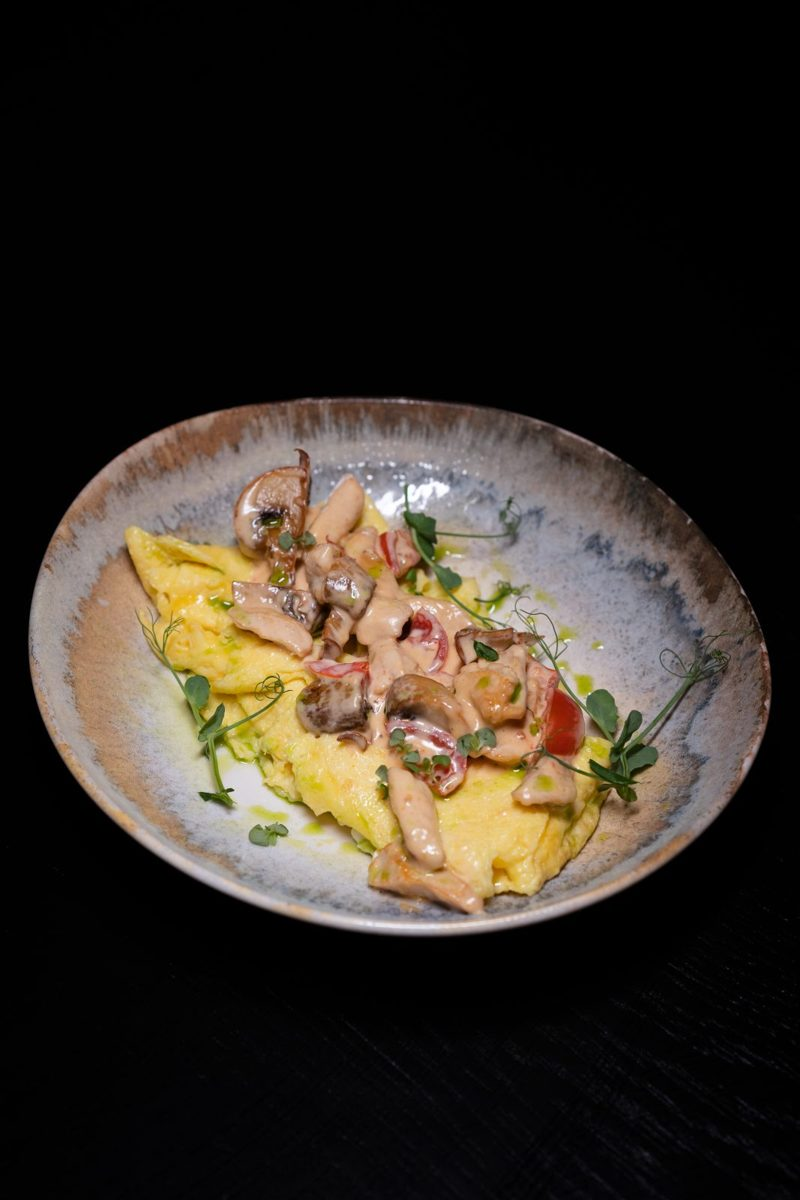
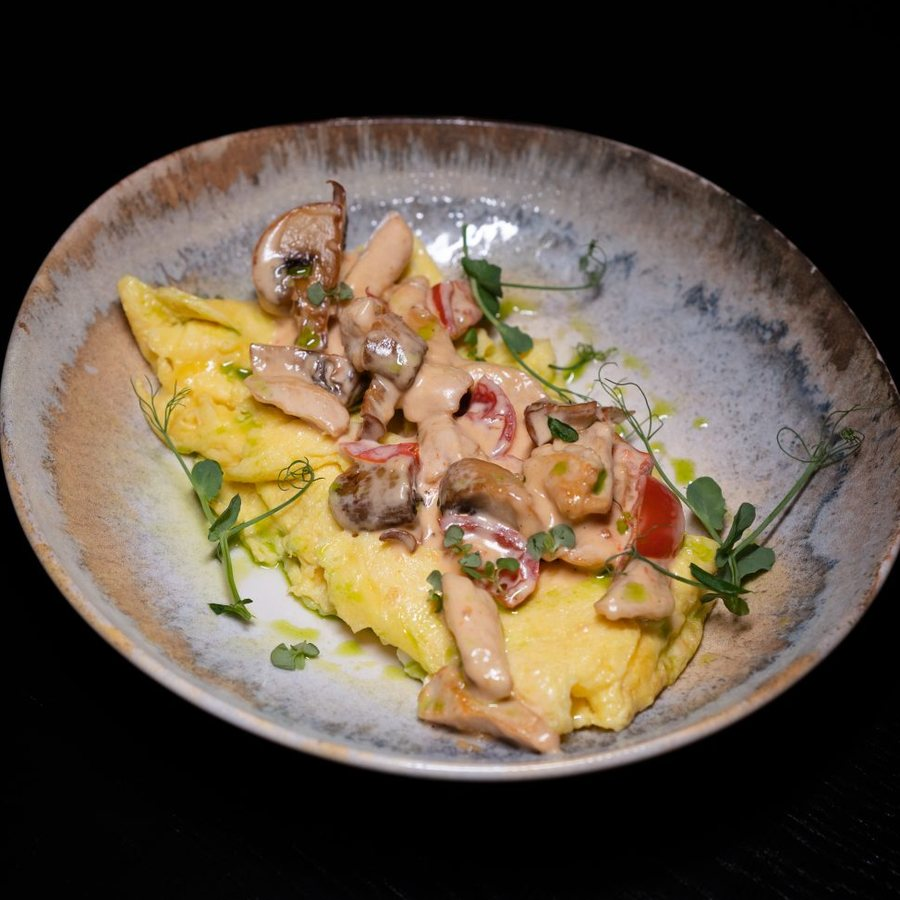
Квадратные фото блюд
Claude-Session: https://claude.ai/code/session_01PeTp9ZrvfF5EompNULWP2G

diff --git a/apps/web/src/styles.css b/apps/web/src/styles.css
@@ -1221,3 +1221,18 @@ a {
 .item-hero img {
   object-position: center 55%;
 }
+
+/* Квадратные фото блюд */
+.item-hero {
+  aspect-ratio: 1 / 1;
+  max-height: 52dvh;
+}
+.item-hero img {
+  object-position: center;
+}
+.item__pic {
+  align-self: start;
+  height: auto;
+  min-height: 0;
+  aspect-ratio: 1 / 1;
+}
